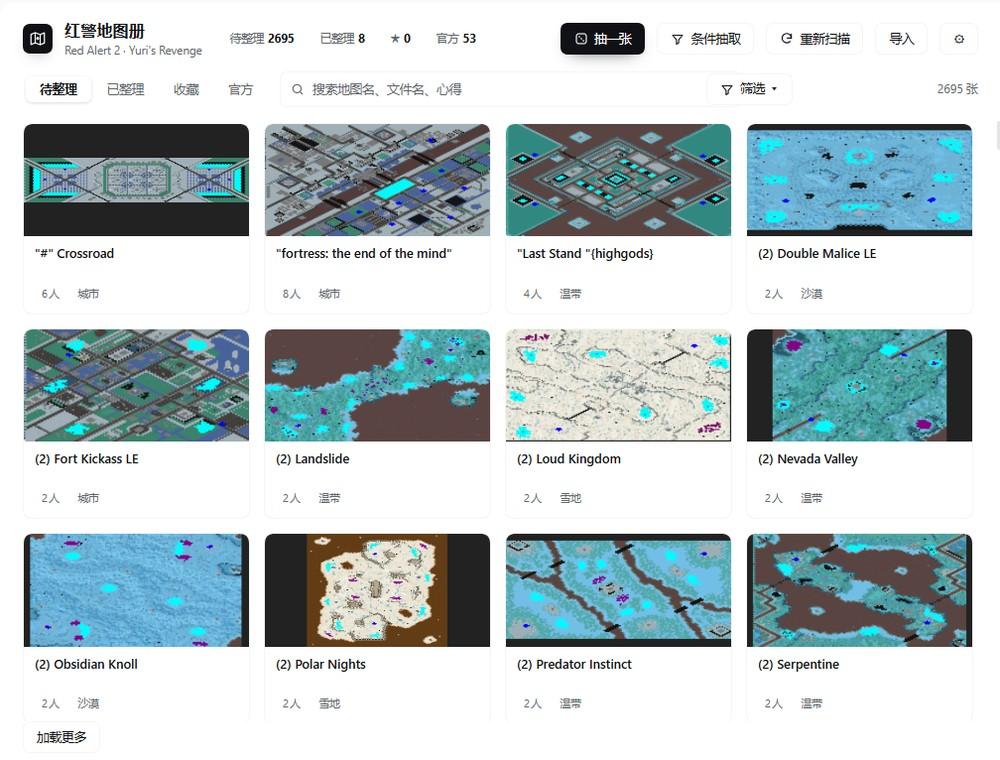
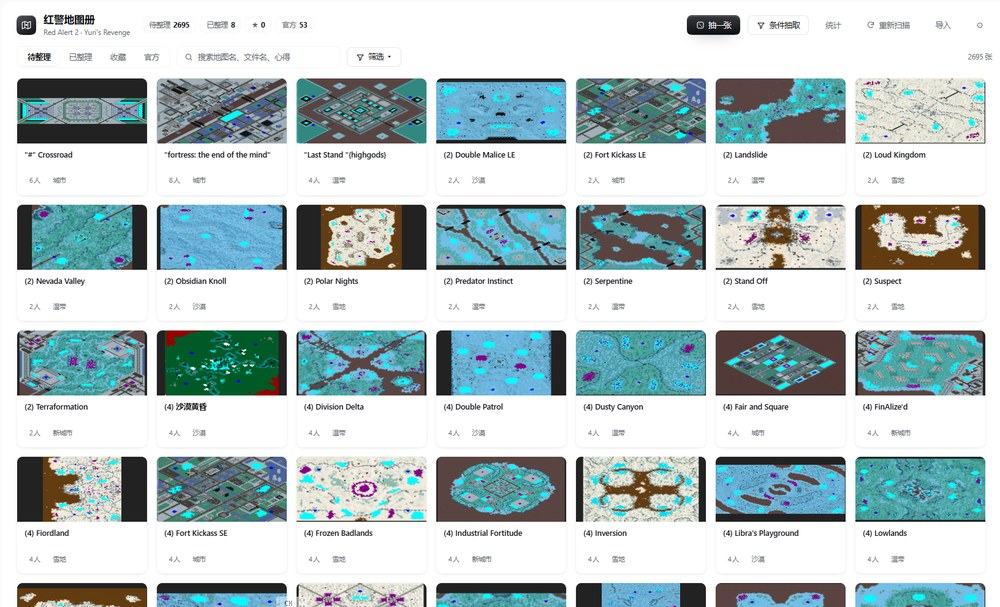
更新截图：新界面、新功能（统计/批量/设置）

diff --git a/README.en.md b/README.en.md
@@ -51,11 +51,15 @@ Map Atlas turns that pile into **a library you can browse**: draw a map into the
 
 **Settling a session** — back from the game, rate it, tag it, write a line; press Save and the file moves itself
 
-![Settle](docs/screenshots/04-settle.jpg)
+<img src="docs/screenshots/04-settle.jpg" width="560" alt="Settle">
 
 **Plugin settings** — library folder, game folder and gameplay options in one place
 
 ![Settings](docs/screenshots/03-settings.jpg)
+
+**Stats** — hours played, favourite player counts, terrain spread; click a row to jump to that map
+
+<img src="docs/screenshots/06-stats.jpg" width="560" alt="Stats">
 
 *(The UI ships in Chinese and English; the screenshots show the Chinese build.)*
 

diff --git a/README.md b/README.md
@@ -51,11 +51,15 @@
 
 **打完评价** —— 从游戏退回来，给星级、打标签、写心得；点「确认归位」，文件自动移到对应文件夹
 
-![评价](docs/screenshots/04-settle.jpg)
+<img src="docs/screenshots/04-settle.jpg" width="560" alt="评价">
 
 **插件设置** —— 地图库路径、游戏目录、作战模式都在这里
 
 ![设置](docs/screenshots/03-settings.jpg)
+
+**统计** —— 打了多久、爱玩几张图、哪个地形最多，一眼看完；点排行直接跳到那张图
+
+<img src="docs/screenshots/06-stats.jpg" width="560" alt="统计">
 
 ---
 
